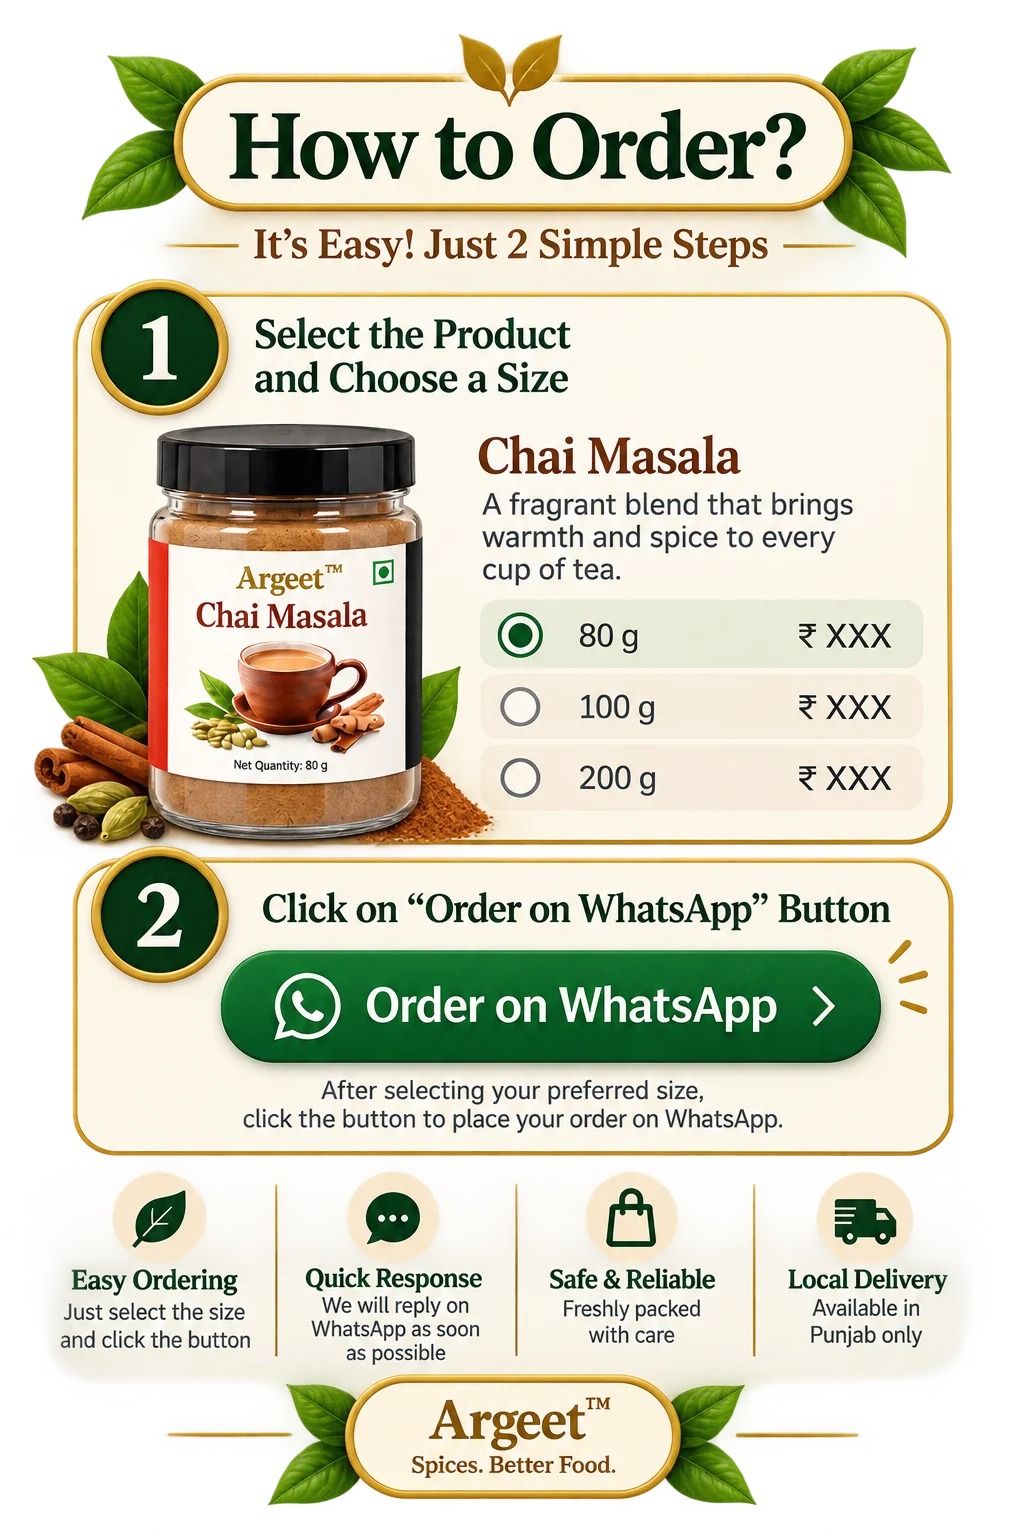
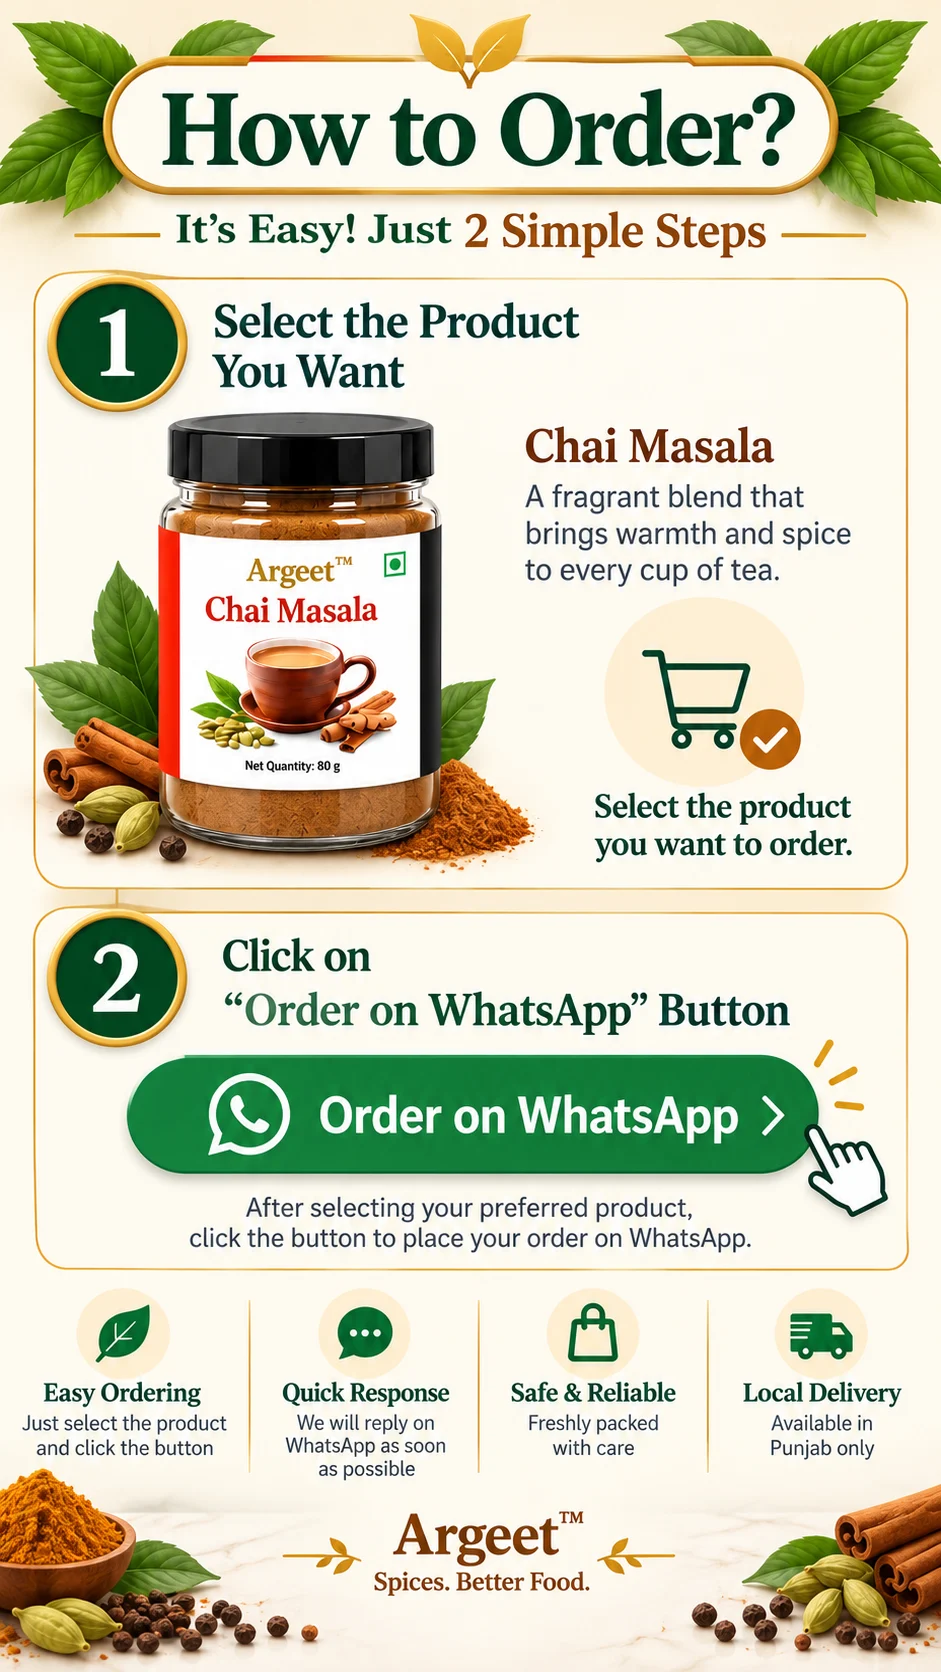
changes

diff --git a/index.html b/index.html
@@ -45,7 +45,7 @@
           <div class="col-6">
             <a href="/" style="text-decoration: none; color: inherit">
               <img src="images/logo.png?v=2" alt="Argeet logo" class="logo img-fluid" />
-              <span style="font-size: 14px">Spices&nbsp;&&nbsp;Seasonings</span>
+              <span style="font-size: 15px">Spices&nbsp;&&nbsp;Seasonings</span>
             </a>
           </div>
 
@@ -54,7 +54,7 @@
               <a href="https://wa.me/919501245955" target="_blank" class="WhatsApp-link text-dark" style="text-decoration: none">
                 <i class="fa-brands fa-WhatsApp"></i>
                 &nbsp;
-                <span style="font-size: 14px"><i class="fa-brands fa-whatsapp"></i> +91 95012 45955</span>
+                <span style="font-size: 15px"><i class="fa-brands fa-whatsapp"></i> +91 95012 45955</span>
               </a>
             </div>
           </div>
@@ -748,8 +748,8 @@
     <div class="row">
       <div class="col-md-12">
         <div class="d-flex justify-content-center">
-          <img src="images/howto.webp?v=2" class="img-fluid desktop-only" alt="How to order Argeet Spices" />
-          <img src="images/howto-m.webp?v=2" class="img-fluid mobile-only" alt="How to order Argeet Spices" />
+          <img src="images/howto.webp?v=3" class="img-fluid desktop-only" alt="How to order Argeet Spices" />
+          <img src="images/howto-m.webp?v=3" class="img-fluid mobile-only" alt="How to order Argeet Spices" />
         </div>
 
         <div class="py-4 text-center">
